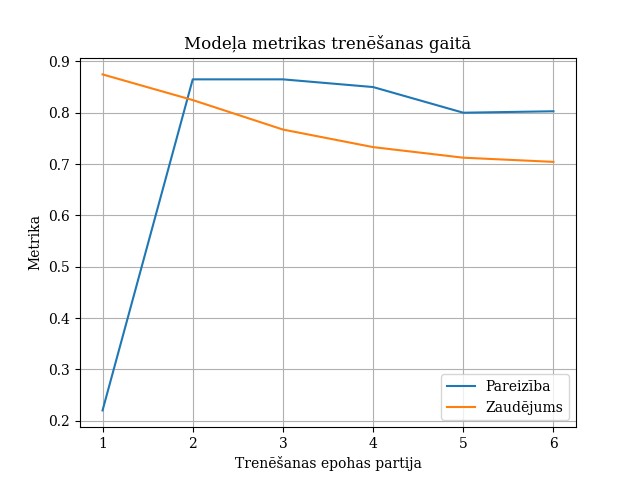
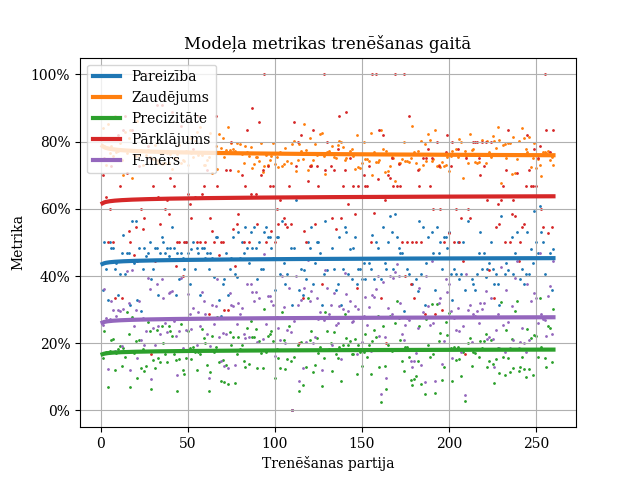
Changed structure of the model

diff --git a/backend/training.py b/backend/training.py
@@ -1,8 +1,11 @@
 import matplotlib.pyplot as plt
+import numpy as np
 import pandas as pd
 import torch
+from matplotlib.ticker import PercentFormatter
 from torch import nn
-from torch.nn.functional import binary_cross_entropy_with_logits
+from torch.nn.functional import binary_cross_entropy_with_logits, binary_cross_entropy
+from torch.optim.lr_scheduler import StepLR
 from torch.utils import data
 from torch.utils.data import random_split
 from torcheval.metrics.functional import binary_accuracy, binary_recall, binary_precision, binary_f1_score
@@ -16,21 +19,32 @@ class NeologismClassificator(nn.Module):
 
     def __init__(self, input_size):
         super().__init__()
-        self.lin_1 = nn.Linear(input_size, 32)
-        self.lin_2 = nn.Linear(32, 16)
-        self.lin_3 = nn.Linear(16, 8)
-        self.lin_4 = nn.Linear(8, 1)
-        self.act_fn = nn.Sigmoid()
+        self.lin_1 = nn.Linear(input_size, 64)
+        self.lin_2 = nn.Linear(64, 32)
+        self.lin_3 = nn.Linear(32, 16)
+        self.lin_4 = nn.Linear(16, 1)
+        self.sigmoid = nn.Sigmoid()
+        self.relu = nn.ReLU()
+        self.norm1 = nn.BatchNorm1d(64)
+        self.norm2 = nn.BatchNorm1d(32)
+        self.norm3 = nn.BatchNorm1d(16)
+        self.dropout = nn.Dropout(0.5)
 
     def forward(self, x):
         x = self.lin_1(x)
-        x = self.act_fn(x)
+        x = self.norm1(x)
+        x = self.relu(x)
+        x = self.dropout(x)
         x = self.lin_2(x)
-        x = self.act_fn(x)
+        x = self.norm2(x)
+        x = self.relu(x)
+        x = self.dropout(x)
         x = self.lin_3(x)
-        x = self.act_fn(x)
+        x = self.norm3(x)
+        x = self.relu(x)
+        x = self.dropout(x)
         x = self.lin_4(x)
-        x = self.act_fn(x)
+        x = self.sigmoid(x)
         return x
 
 
@@ -61,35 +75,72 @@ def train_model(model, train_loader, epoch_count, learning_rate):
 
     accuracy_history = []
     loss_history = []
+    precision_history = []
+    recall_history = []
+    f_score_history = []
+
+    optimizer.zero_grad()
+    scheduler = StepLR(optimizer, step_size=30, gamma=0.1)
+
     for epoch in range(epoch_count):
         for idx, (data_input, data_target) in enumerate(train_loader, start=1):
-            optimizer.zero_grad()
             results = model(data_input)
-            loss = binary_cross_entropy_with_logits(results, data_target)
+            # output = binary_cross_entropy_with_logits(results, data_target)
+            output = binary_cross_entropy(results, data_target)
 
-            loss.backward()
-            optimizer.step()
+            output.backward()
+            # optimizer.step()
+            scheduler.step()
 
             results = results.round().squeeze().type(torch.int32)
             data_target = data_target.squeeze().type(torch.int32)
 
             batch_accuracy = binary_accuracy(results, data_target).item()
-            batch_loss = loss.item()
+            batch_loss = output.item()
+            precision = binary_precision(results, data_target).item()
+            recall = binary_recall(results, data_target).item()
+            f_score = binary_f1_score(results, data_target).item()
 
             accuracy_history.append(batch_accuracy)
             loss_history.append(batch_loss)
+            precision_history.append(precision)
+            recall_history.append(recall)
+            f_score_history.append(f_score)
 
     batches = list(range(1, len(accuracy_history) + 1))
+    a = np.polyfit(np.log(batches), accuracy_history, 1)
+    accuracy_smooth = a[0] * np.log(batches) + a[1]
+    a = np.polyfit(np.log(batches), loss_history, 1)
+    loss_smooth = a[0] * np.log(batches) + a[1]
+    a = np.polyfit(np.log(batches), precision_history, 1)
+    precision_smooth = a[0] * np.log(batches) + a[1]
+    a = np.polyfit(np.log(batches), recall_history, 1)
+    recall_smooth = a[0] * np.log(batches) + a[1]
+    a = np.polyfit(np.log(batches), f_score_history, 1)
+    f_score_smooth = a[0] * np.log(batches) + a[1]
+
     plt.rcParams['font.family'] = 'serif'
-    plt.plot(batches, accuracy_history, label='Pareizība')
-    plt.plot(batches, loss_history, label='Zaudējums')
-    plt.xlabel('Trenēšanas epohas partija')
-    plt.ylabel('Metrika')
-    plt.title('Modeļa metrikas trenēšanas gaitā')
-    plt.legend()
-    plt.grid(True)
-    plt.savefig('training_metrics.png')
-    plt.clf()
+    fig, ax = plt.subplots()
+
+    ax.plot(batches, accuracy_smooth, lw=3, label='Pareizība')
+    ax.scatter(batches, accuracy_history, s=1)
+    ax.plot(batches, loss_smooth, lw=3, label='Zaudējums')
+    ax.scatter(batches, loss_history, s=1)
+    ax.scatter(batches, precision_history, s=1)
+    ax.plot(batches, precision_smooth, lw=3, label='Precizitāte')
+    ax.scatter(batches, recall_history, s=1)
+    ax.plot(batches, recall_smooth, lw=3, label='Pārklājums')
+    ax.scatter(batches, f_score_history, s=1)
+    ax.plot(batches, f_score_smooth, lw=3, label='F-mērs')
+
+    ax.set_title('Modeļa metrikas trenēšanas gaitā')
+    ax.set_xlabel('Trenēšanas partija')
+    ax.set_ylabel('Metrika')
+    ax.yaxis.set_major_formatter(PercentFormatter(xmax=1.0))
+    ax.legend()
+    ax.grid(True)
+    fig.savefig('training_metrics.png')
+    fig.clf()
 
     # model saving
     state_dict = model.state_dict()
@@ -105,7 +156,7 @@ def test_model(model, test_loader, filename):
     recall_history = []
     f_score_history = []
 
-    with torch.no_grad(), open('test_results.csv', 'w', encoding='utf8') as results:
+    with torch.no_grad(), open('test_results.csv', 'w', encoding='utf8'):
         model.eval()
         for idx, (inputs, targets) in enumerate(test_loader, start=1):
             results = model(inputs)
@@ -116,10 +167,10 @@ def test_model(model, test_loader, filename):
             results = results.round().squeeze().type(torch.int32)
             targets = targets.squeeze().type(torch.int32)
 
-            accuracy = binary_accuracy(results, targets)
-            precision = binary_precision(results, targets)
-            recall = binary_recall(results, targets)
-            f_score = binary_f1_score(results, targets)
+            accuracy = binary_accuracy(results, targets).item()
+            precision = binary_precision(results, targets).item()
+            recall = binary_recall(results, targets).item()
+            f_score = binary_f1_score(results, targets).item()
 
             accuracy_history.append(accuracy)
             precision_history.append(precision)
@@ -127,18 +178,40 @@ def test_model(model, test_loader, filename):
             f_score_history.append(f_score)
 
     batches = list(range(1, len(accuracy_history) + 1))
+    a = np.polyfit(np.log(batches), accuracy_history, 1)
+    accuracy_smooth = a[0] * np.log(batches) + a[1]
+    a = np.polyfit(np.log(batches), precision_history, 1)
+    precision_smooth = a[0] * np.log(batches) + a[1]
+    a = np.polyfit(np.log(batches), recall_history, 1)
+    recall_smooth = a[0] * np.log(batches) + a[1]
+    a = np.polyfit(np.log(batches), f_score_history, 1)
+    f_score_smooth = a[0] * np.log(batches) + a[1]
+
     plt.rcParams['font.family'] = 'serif'
-    plt.plot(batches, accuracy_history, label='Pareizība')
-    plt.plot(batches, precision_history, label='Precizitāte')
-    plt.plot(batches, recall_history, label='Pārklājums')
-    plt.plot(batches, f_score_history, label='F-mērs')
-    plt.xlabel('Testēšanas epohas partija')
-    plt.ylabel('Metrika')
-    plt.title('Modeļa metrikas testēšanas gaitā')
-    plt.legend()
-    plt.grid(True)
-    plt.savefig('testing_metrics.png')
-    plt.clf()
+    fig, ax = plt.subplots()
+
+    ax.scatter(batches, accuracy_history, s=1)
+    ax.plot(batches, accuracy_smooth, lw=3, label='Pareizība')
+    ax.scatter(batches, precision_history, s=1)
+    ax.plot(batches, precision_smooth, lw=3, label='Precizitāte')
+    ax.scatter(batches, recall_history, s=1)
+    ax.plot(batches, recall_smooth, lw=3, label='Pārklājums')
+    ax.scatter(batches, f_score_history, s=1)
+    ax.plot(batches, f_score_smooth, lw=3, label='F-mērs')
+
+    ax.set_title('Modeļa metrikas testēšanas gaitā')
+    ax.set_xlabel('Testēšanas epohas partija')
+    ax.set_ylabel('Metrika')
+    ax.yaxis.set_major_formatter(PercentFormatter(xmax=1.0))
+    ax.legend()
+    ax.grid()
+    fig.savefig('testing_metrics.png')
+    fig.clf()
+
+    logger.info(f'Average accuracy: {np.average(accuracy_history):.2%}')
+    logger.info(f'Average precision: {np.average(precision_history):.2%}')
+    logger.info(f'Average recall: {np.average(recall_history):.2%}')
+    logger.info(f'Average F-score: {np.average(f_score_history):.2%}')
 
 
 if __name__ == '__main__':
@@ -146,15 +219,15 @@ if __name__ == '__main__':
     device = torch.device('cuda') if torch.cuda.is_available() else torch.device('cpu')
     logger.info(f'Device: {device}')
 
-    epoch_count = 1
+    epoch_count = 20
     learning_rate = 0.1
-    batch_size = 200
+    batch_size = 64
 
     model = NeologismClassificator(input_size=21).to(device)
     dataset = NeologismClassificatorDataset()
-    train_set, test_set = random_split(dataset, [.7, .3])
+    train_set, test_set = random_split(dataset, [.5, .5])
     train_loader = data.DataLoader(train_set, batch_size=batch_size, shuffle=True)
-    test_loader = data.DataLoader(test_set, batch_size=batch_size, shuffle=True)
+    test_loader = data.DataLoader(test_set, batch_size=5, shuffle=True)
 
-    train_model(model, train_loader, epoch_count, learning_rate)
+    # train_model(model, train_loader, epoch_count, learning_rate)
     test_model(model, test_loader, 'model.pt')
